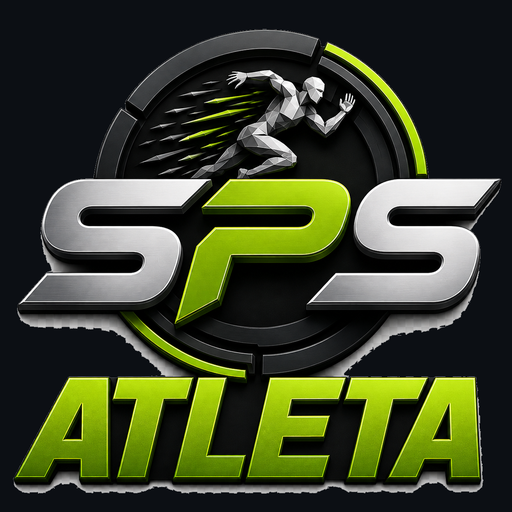
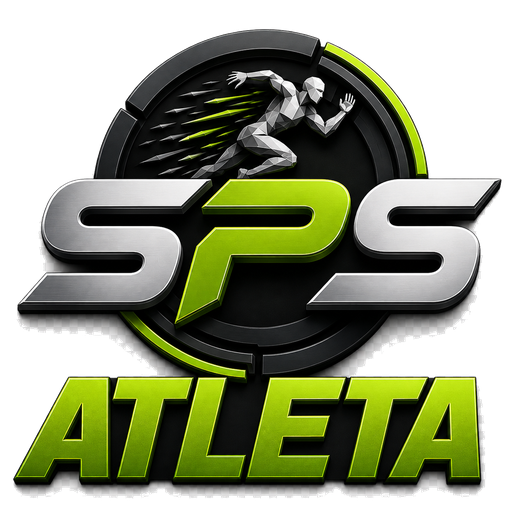
sps-v136: novos ícones PWA - app Atleta e app Nutrição

diff --git a/sw.js b/sw.js
@@ -1,7 +1,7 @@
 // SPS Sports Performance — Service Worker
 // Cache estratégico: app shell + CDN assets
 
-const CACHE = 'sps-v135';
+const CACHE = 'sps-v136';
 const ASSETS = [
   './',
   './index.html',
